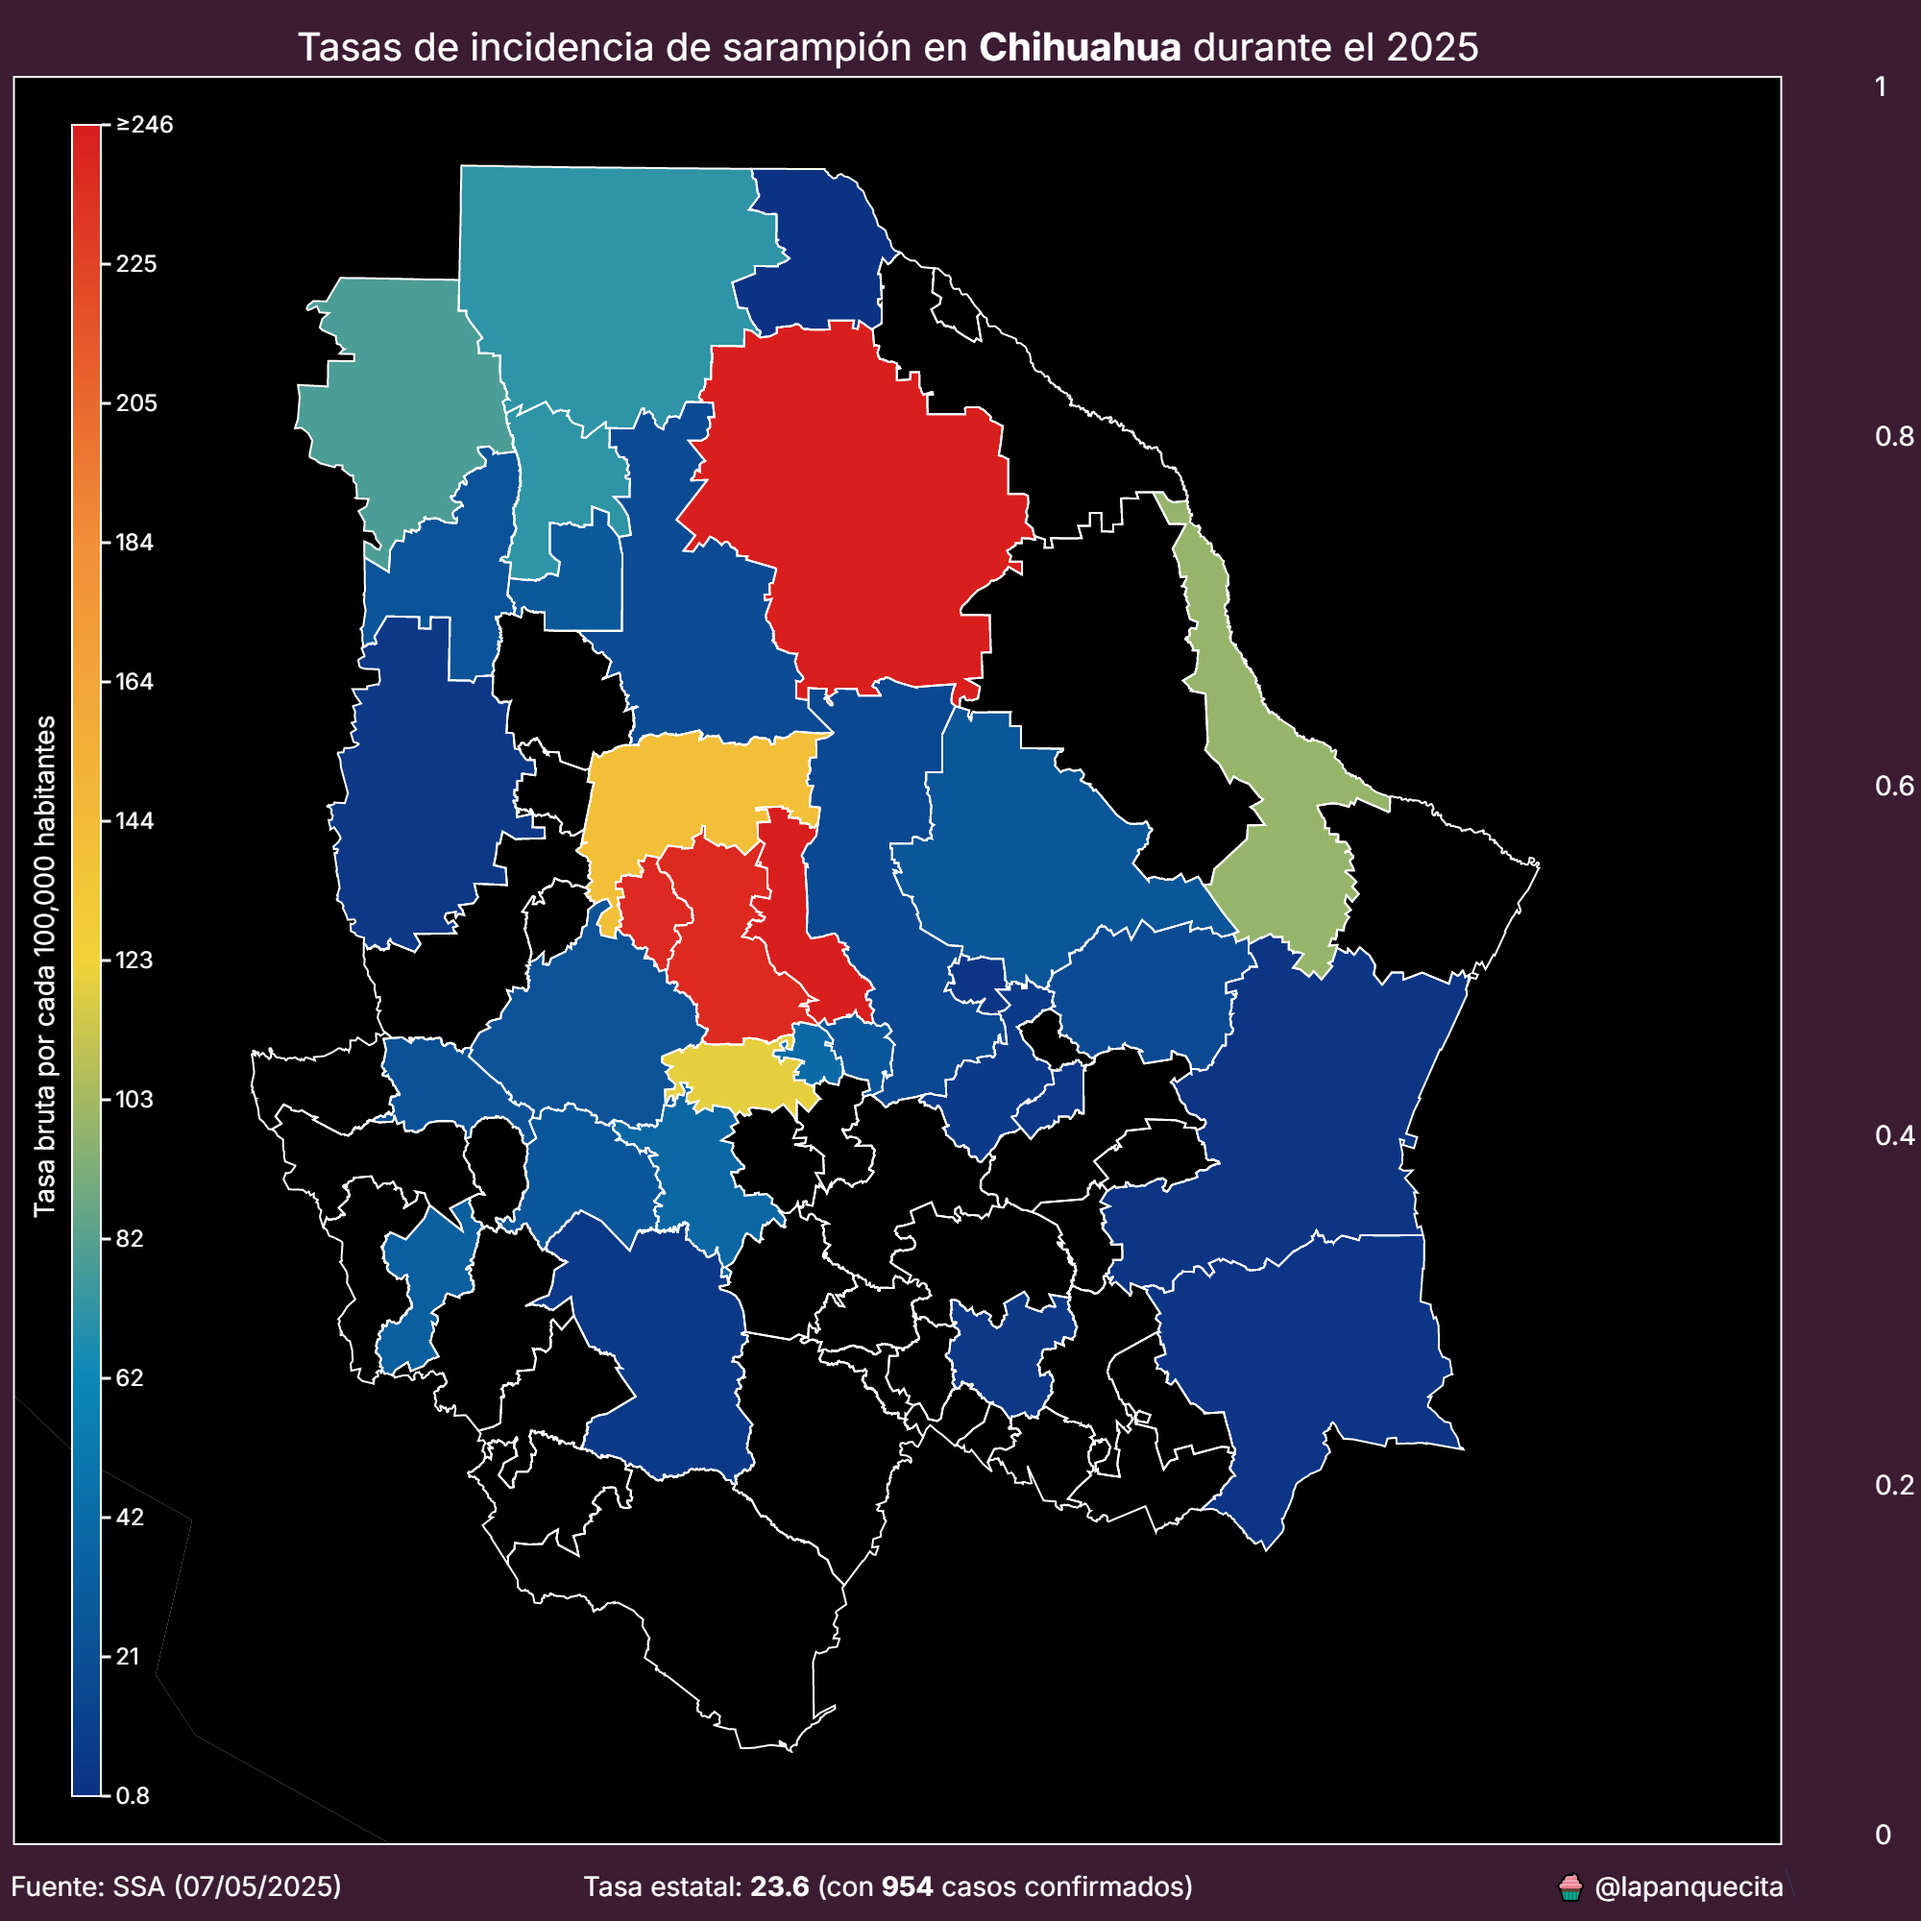
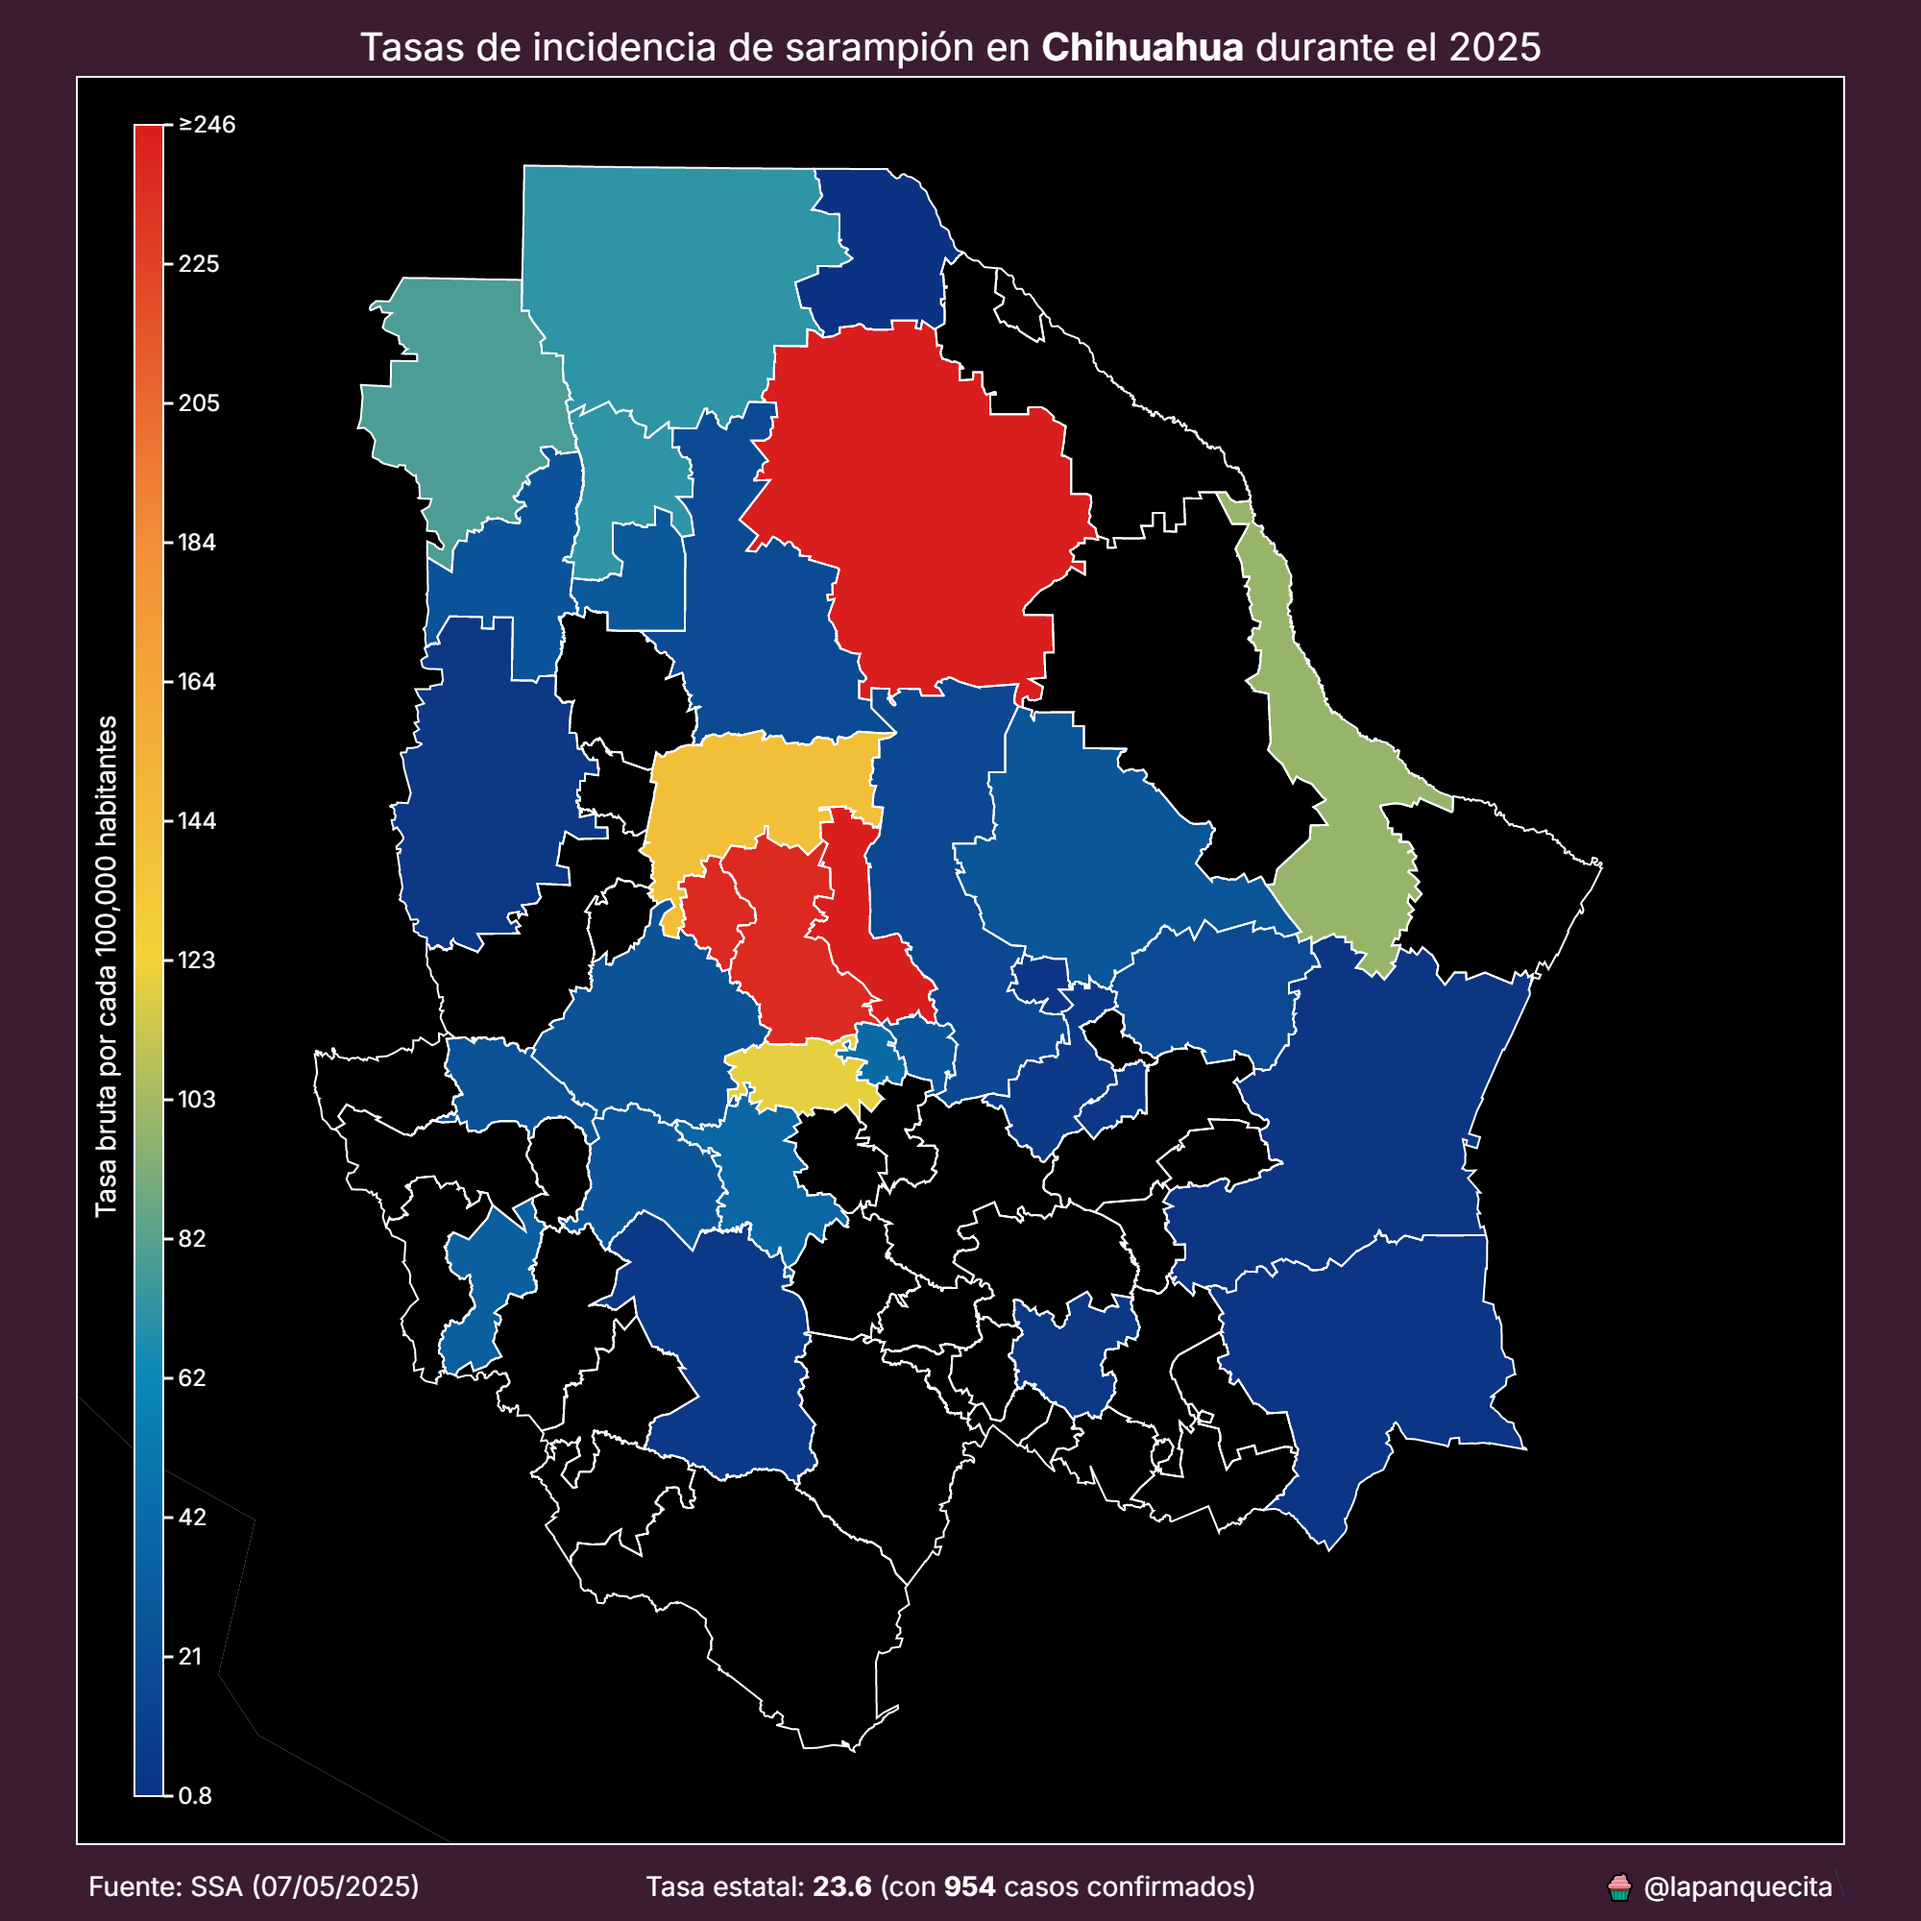
Arreglo mapa

diff --git a/estatal.py b/estatal.py
@@ -162,7 +162,7 @@ def crear_mapa(año, entidad):
             zmin=valor_min,
             zmax=valor_max,
             colorbar=dict(
-                x=0.035,
+                x=0.065,
                 y=0.5,
                 ypad=50,
                 ticks="outside",
@@ -190,6 +190,7 @@ def crear_mapa(año, entidad):
             marker_line_width=2,
             zmin=0,
             zmax=1,
+            showscale=False,
         )
     )
 
@@ -235,7 +236,7 @@ def crear_mapa(año, entidad):
                 font_size=40,
             ),
             dict(
-                x=0.03,
+                x=0.06,
                 y=0.48,
                 textangle=-90,
                 xanchor="center",
@@ -243,7 +244,7 @@ def crear_mapa(año, entidad):
                 text="Tasa bruta por cada 100,000 habitantes",
             ),
             dict(
-                x=0.01,
+                x=0.05,
                 y=-0.03,
                 xanchor="left",
                 yanchor="top",
@@ -257,7 +258,7 @@ def crear_mapa(año, entidad):
                 text=subtitulo,
             ),
             dict(
-                x=1.0,
+                x=0.96,
                 y=-0.03,
                 xanchor="right",
                 yanchor="top",
@@ -412,5 +413,5 @@ def crear_tabla_absolutos(año, entidad):
 
 
 if __name__ == "__main__":
-    # crear_mapa(2025, 8)
+    crear_mapa(2025, 8)
     crear_tabla_absolutos(2025, 8)
